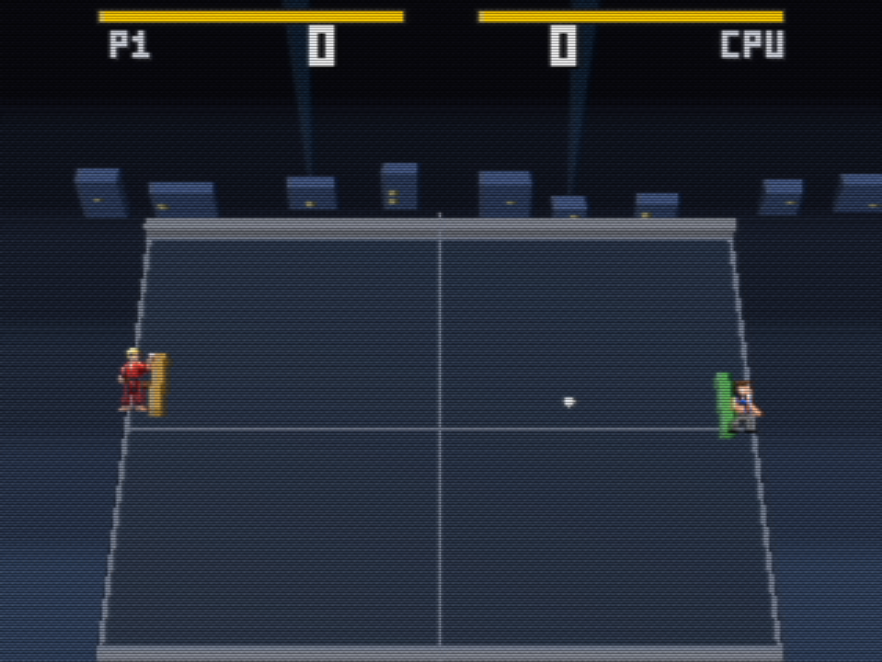
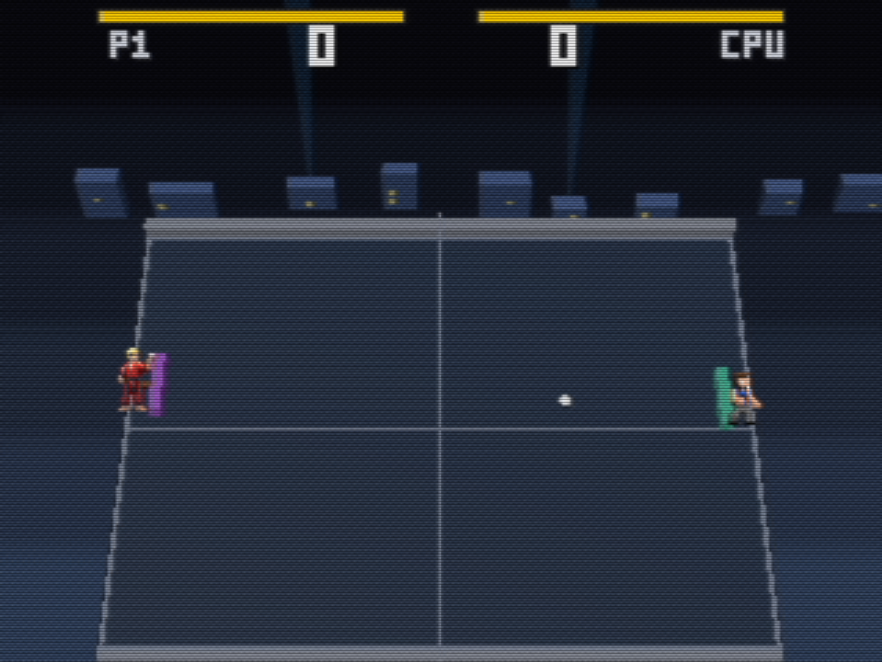
item 1291: the after picture, the timing re-taken, and the bat-edge check
The before/after pair is now the same frame: the bat colours are pinned on the
measurement page (era 5 borrows era 1's, which the session picks at random), the
before side is a detached checkout of the branch's own base 95ae4b9 rather than a
master that has moved 25 commits on, and rally.mjs throws a warm-up away and
reports the MEDIAN of its windows.

Evidence committed, counted from the files being staged: docs/measure/item-1291/
before.txt and after.txt hold 89 lines each -- 2 runs from attempt 1, 3 software-
WebGL runs, 2 runs on the real graphics card and 1 picture/edge run apiece, 8 runs
a side. 2 PNGs. Both logs were wholly CRLF from attempt 1's PowerShell redirection
and are rewritten LF, matching the rest of the repo (CR 0, verified against bytes).

Speed: on the graphics card the card is free -- 4.63 and 4.83 ms a frame before,
4.77 and 4.54 after, two back-to-back pairs, inside the 2 ms the brief asks for.
In the playtest's software rasteriser the new texture fetch costs about 4 ms a GL
draw (1.9-2.2 before, 6.0-7.1 after), which is a CPU rasteriser charging full price
for one fetch and one divide per fragment.

Edge: the left bat's edge steps at x = 140, 138, 135 -- 3 of 3 on the 2.5-pixel
chunk grid -- identically before and after, so the chunk stepping is the era's own
320 x 240 buffer carried forward, not something this card adds.

Changed region(s): [[0.7959, 0.5438, 0.8878, 0.6647], [0.1531, 0.5136, 0.2143, 0.6344], [0.6429, 0.6042, 0.6735, 0.6344]]

diff --git a/docs/lessons/era5-playstation.md b/docs/lessons/era5-playstation.md
@@ -164,3 +164,76 @@ era 5): *Tekken* and *Toshinden* on a *Ridge Racer* night. Frames of the result,
   black belt, the right in a blue sleeveless top and grey trousers.
 
 - **The opponent's name is not drawn in this era (item 1261)**: the top bar already says CPU over the right score, so the caption under it said the same thing twice.
+
+---
+
+What item 1291 learned putting the same limits inside the **real 3D layer** (`src/field3d.js`,
+item 1273), now that the table, net, bats and ball are lit polygons rather than drawn by hand:
+[the frame before](../shots/item-1291/before-era5-rally.png) and
+[the frame after](../shots/item-1291/after-era5-rally.png), the same rally, the same camera pose.
+
+**What the reference changed**
+
+- *Ridge Racer*'s road and *Tekken*'s stage are the same trick, and it is the one thing the layer
+  had no knob for: **a texture with no perspective correction**. Before this card the 3D table was
+  a plain lit slab with no texture at all, and it read as a modern engine's grey floor. A 64 x 64
+  checker mapped affine is what makes it 1994 — the checker kinks along each triangle's diagonal
+  and slides as the camera wobbles, which is the flaw everybody remembers.
+- **Cut the top into few, large triangles.** The kink lives at the triangle edges, so a finely
+  divided slab hides it. The canvas table's own 2 x 2 quads — 8 triangles for the whole 800 x 600
+  top — are what make the swim large enough to see, and the same number the hand-drawn table used.
+- Everything else that says PlayStation was already a knob the layer reads from the look:
+  `render { resolution: 1, filter: false, lighting: 'flat' }`. The field goes into the era's
+  320 x 240 buffer, so one GL pixel per picture pixel is 320 x 240; no filtering is what makes the
+  copy up sharp, so every edge lands on a 2.5-pixel chunk; flat is one colour a face.
+
+**How the affine map is done**
+
+- three.js interpolates every varying *perspective-correctly*, so you cannot simply ask it not to.
+  The trick is to undo it: multiply the texture coordinate by `gl_Position.w` in the vertex shader
+  and divide it back by an interpolated `w` in the fragment shader. What arrives at the fragment is
+  then the coordinate interpolated linearly **in screen space** — exactly what the PlayStation's
+  texture mapper did, because it had no divider.
+- It goes in through `onBeforeCompile` on the slab's material: `#include <project_vertex>` grows
+  two lines, and `#include <map_fragment>` is replaced outright. Nothing in the layer is edited,
+  which is what lets one era reshape a scene six eras share.
+- **The scene is shared, so the setup must be re-appliable, and must cost nothing when nothing has
+  changed.** `fieldSetup` re-installs itself when the last frame was another era's and when the
+  layer has rebuilt its materials (a lighting change does), and otherwise returns on the first
+  `if`. A version bump on a material every frame would recompile a shader every frame.
+
+**What did not work, and what it cost**
+
+- **The picture-quality knobs are free; the texture is not, on a CPU.** In the playtest's headless
+  Chrome, which rasterises WebGL in software, the textured slab costs about **4 ms a GL draw** more
+  than the untextured one (1.9-2.2 ms against 6.0-7.1 ms, 3 runs each, back to back), and the page
+  reads 17.4 ms a frame before and 21.3-23.3 after. **On the graphics card the whole difference is
+  inside the noise**: 4.63 ms a frame before against 4.77 after, 0.72 ms a GL draw against 0.80.
+  That is one texture fetch and one divide per fragment over most of the screen, which is what a
+  software rasteriser charges full price for and a GPU does not notice. Judge a 3D era's speed with
+  `--gpu`; `node docs/measure/item-1291/rally.mjs --label after --gpu` re-takes it.
+- **The first seconds of a page are not its speed.** A material with a custom shader chunk has its
+  program compiled the first time it is drawn, and in SwiftShader that showed up as a single
+  216 ms frame in the middle of a three-second window — enough to move that window's mean from
+  22 to 62 ms and to make the card look 13 ms slower than it is. The capture script throws six
+  seconds away before it measures anything and reports the **median** of its windows, and the
+  difference went to 0.1 ms. Section 8a of the worker bootstrap is the same lesson from the ring.
+- **Pin the bat's colour before measuring its edges, and pin it to a colour nothing else wears.**
+  Era 5 borrows era 1's paddle colours, which the session picks at random, so two runs photograph
+  two differently coloured bats. Pinning it to the accent red fixed that and broke something else:
+  the left player's gi is the same red, so the edge scan traced the *figure* and reported 5 of 9
+  edges on the chunk grid instead of 3 of 3 — identically on both trees, which is what gave it
+  away. A purple and a teal nothing else on this table uses keep the scan honest.
+
+**What a one-era PlayStation game would copy**
+
+- The affine shader chunk verbatim (`layer.AFFINE` and `layer.affineChunk` on the look). It is ten
+  lines and it is the single strongest period signal on a textured 3D surface.
+- The rule that the era's scene work is one function, `fieldSetup(F, state)`, which asks the layer
+  for its internals and does nothing at all when there are none — that is what keeps `node --test`
+  and `?gl=off` drawing exactly what they drew before.
+
+LESSONS: the reference games moved this rung from "a low-resolution 3D table" to "a 1994 3D table",
+and the whole of that move is one texture mapped without perspective correction across eight big
+triangles; the resolution, the filtering and the flat shading were already knobs, and the 64 x 64
+checker that kinks and swims is the thing a player recognises.
